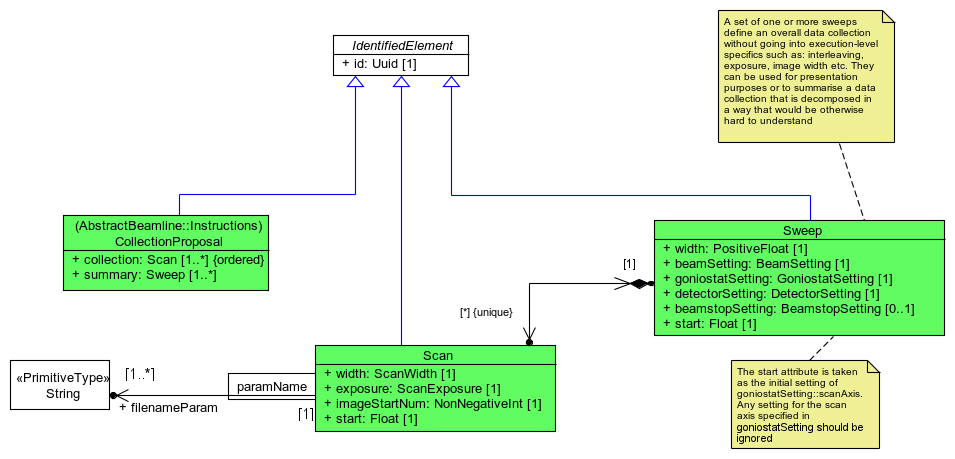
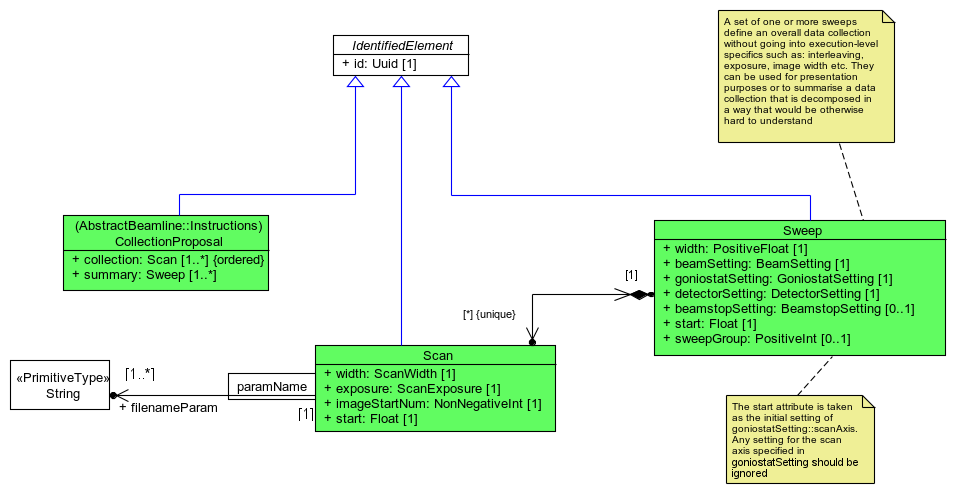
Make inverse-beam relationship between sweeps explicit

diff --git a/com.globalphasing.sdcp.abstract_beamline/src/co/gphl/beamline/v2_unstable/data_collection/Sweep.java b/com.globalphasing.sdcp.abstract_beamline/src/co/gphl/beamline/v2_unstable/data_collection/Sweep.java
@@ -29,6 +29,8 @@ public interface Sweep extends IdentifiedElement {
     String getScanAxis();
     double getWidth();
     double getStart();
+    Integer getSweepGroup();
+    boolean isSetSweepGroup();
     Set<Scan> getScans();
     
 }
